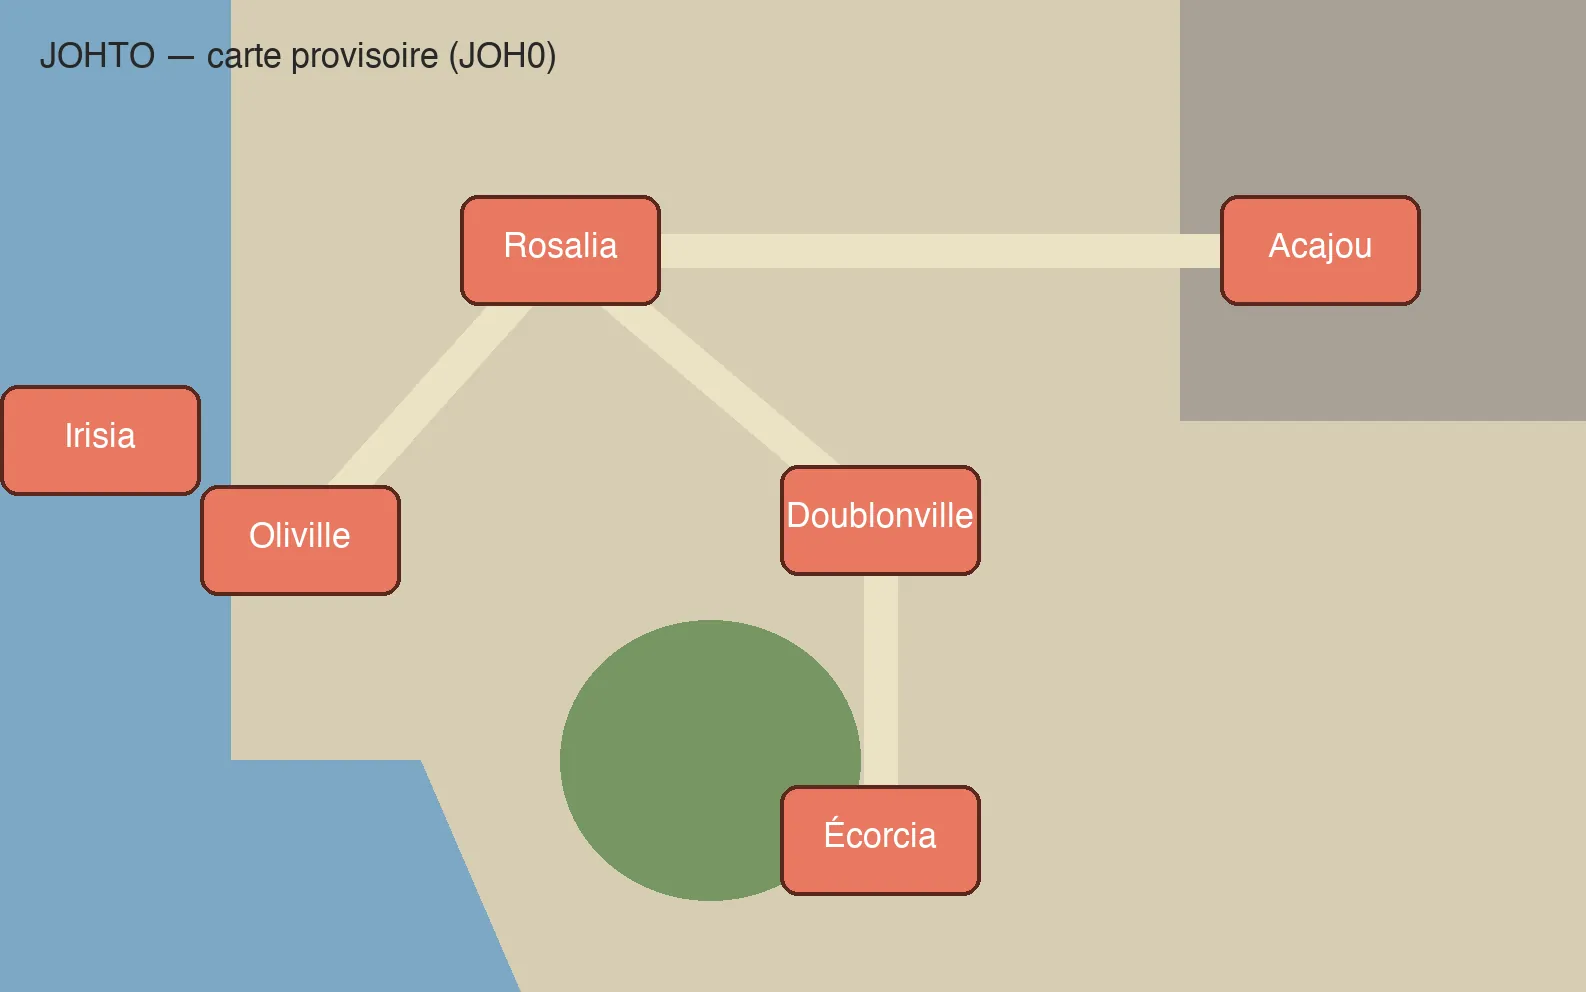
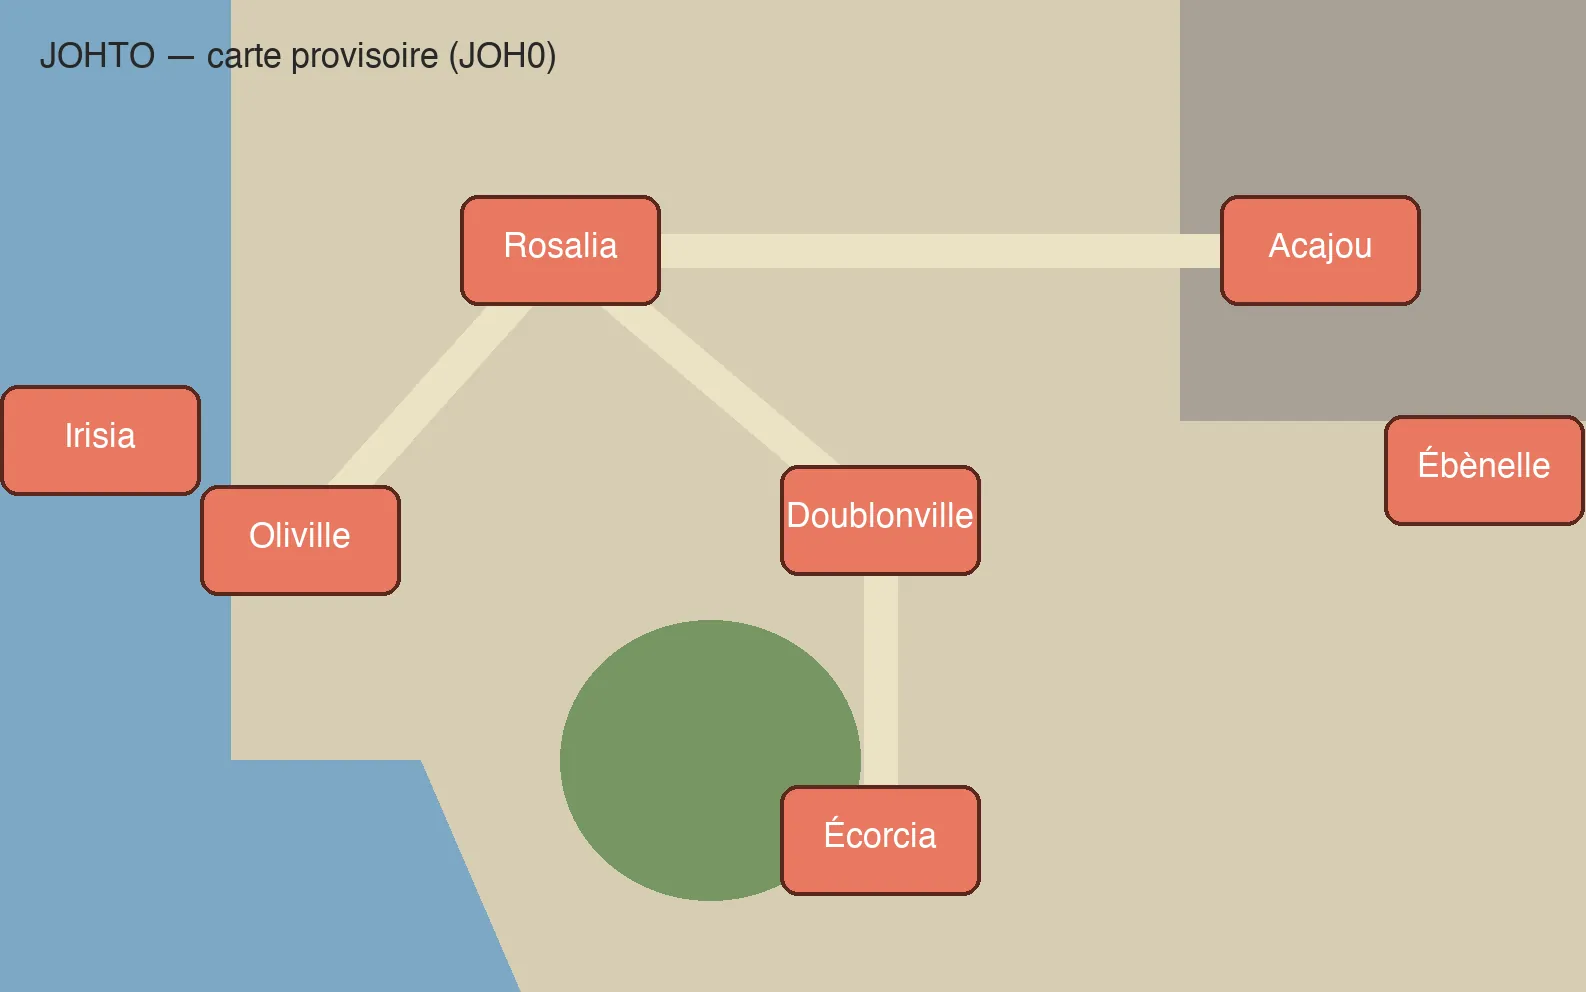
JOHP3 : intégration du JOHP1 et du JOHP2 (Rosalia : arrivée from_dragon, Corentin ouvre le vol ; repères de la carte de Johto, décors de combat, registres, tests)

Changed region(s): [[0.8651, 0.4062, 1.0, 0.5312]]

diff --git a/tools/gen_johp2_data.py b/tools/gen_johp2_data.py
@@ -119,10 +119,6 @@ P19_SYSTEM = ["Cenere remonte sur le bateau noir. Le bateau s'éloigne…"]
 P19B = ["Tu as la tête de quelqu'un qui a perdu.",
 	"Tiens, un drôle de gars t'a cherché ce matin. Il est descendu du ciel sur un Dracolosse.",
 	"Il a dit qu'il t'attendrait à Rosalia."]
-P20 = ["Enfin ! Toi, c'est {player} ? Je te cherche depuis Oliville !",
-	"Corentin, messager du clan des dragons, d'Ébènelle.",
-	"L'Aïeule a entendu une pierre se réveiller. Elle a dit : « amène-moi celui qui la porte. »",
-	"Tu as déjà volé sur un Dracolosse ? Non ? C'est très facile. Tiens-toi bien."]
 P41_CITY = ["IRISIA", "L'île au bout de la mer"]
 P41_CAVE = ["GROTTE DE LA MARÉE", "Entrée interdite à marée haute"]
 P48_VALVE = ["{player} tourne la vanne.", "On entend l'eau bouger, plus bas."]
@@ -497,8 +493,8 @@ def write_olivine():
 
 
 def write_rosalia():
-	"""Corentin et son Dracolosse (variante ARC), présents après le revers. Son vol et la suite de
-	P-20 sont au JOHP3, qui reprend le dialogue `ecruteak_corentin`."""
+	"""Corentin et son Dracolosse (variante ARC), présents après le revers. P-20 et son vol sont au
+	JOHP3 (`tools/gen_johp3_data.py`, scène `johto_corentin_flight`)."""
 	positions = read_plan("rosalia")
 	_kind, cells, attrs = positions["corentin"]
 	_kind, mount_cells, mount_attrs = positions["dracolosse"]
@@ -510,7 +506,7 @@ def write_rosalia():
 			"if": mount_attrs["actif_avec"].split(",")},
 	})
 	write_json(os.path.join(DATA, "dialogues", PREFIX + "ecruteak.json"),
-		{"ecruteak_corentin": dialogue("Corentin", P20)})
+		{"ecruteak_corentin": {"cutscene": "johto_corentin_flight"}})
 
 
 def write_interiors():

diff --git a/tools/gen_johp3_data.py b/tools/gen_johp3_data.py
@@ -520,8 +520,7 @@ def main():
 		trainers[trainer_id] = trainer_entry(name, klass, prize, team)
 	for ident, value in T.items():
 		dialogues[ident] = dialogue(*value)
-	# Corentin : les deux PNJ ouvrent chacun leur scène (celui de Rosalia : variante ARC, JOHP2).
-	dialogues["ecruteak_corentin"] = {"cutscene": "johto_corentin_flight"}
+	# Corentin d'Ébènelle ; celui de Rosalia ouvre `johto_corentin_flight` (`tools/gen_johp2_data.py`).
 	dialogues["blackthorn_city_corentin"] = {"cutscene": "blackthorn_corentin_back"}
 	dialogues["blackthorn_city_dracolosse"] = dialogue(NARRATION,
 		["Le Dracolosse de Corentin bâille.", "Il a l'air de bien connaître le chemin."], True)

diff --git a/tools/make_johto_map_placeholder.py b/tools/make_johto_map_placeholder.py
@@ -24,6 +24,8 @@ TOWNS = {
 	"mahogany_town": ((1320, 250), "Acajou"),
 	# Arc des Pierres (JH-76) : Irisia, île à l'ouest des Routes 40-41.
 	"cianwood_city": ((100, 440), "Irisia"),
+	# Ébènelle, à l'est d'Acajou, derrière les montagnes (§4.1).
+	"blackthorn_city": ((1484, 470), "Ébènelle"),
 }
 ROADS = [("olivine_city", "ecruteak_city"), ("ecruteak_city", "goldenrod_city"),
 	("goldenrod_city", "azalea_town"), ("ecruteak_city", "mahogany_town")]
